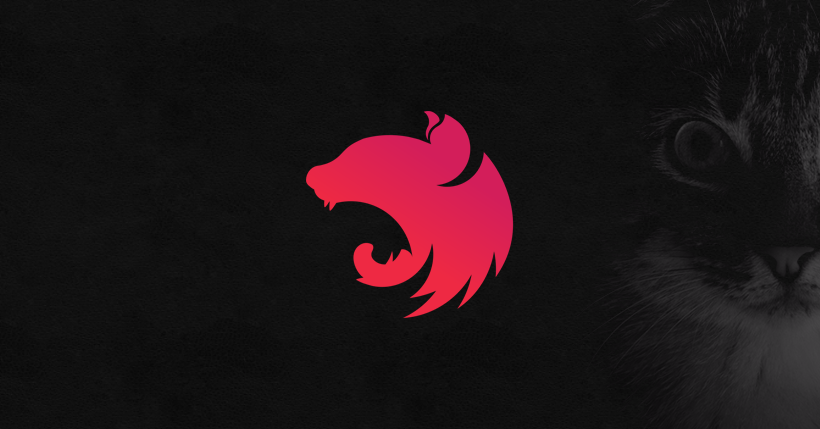
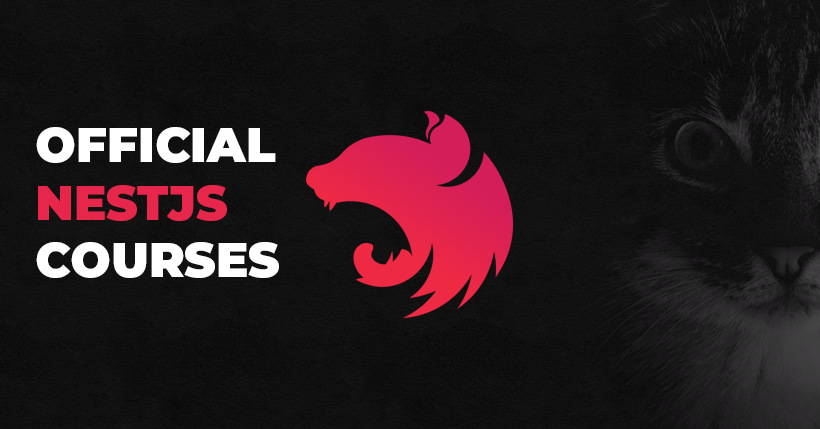
feat: data, updated og, sitemap

Changed region(s): [[0.0305, 0.5455, 0.3659, 0.6667], [0.0305, 0.2727, 0.3354, 0.3939], [0.0305, 0.4242, 0.2744, 0.5152]]

diff --git a/index.html b/index.html
@@ -34,9 +34,9 @@
       property="og:description"
       content="Official NestJS Courses. Learn everything from the basic principles, best-practices, tips & tricks, and advanced patterns straight from NestJS creator and core team members."
     />
-    <meta property="og:image" content="https://nestjs.com/img/nest-og.png" />
-    <meta property="og:image:width" content="1200" />
-    <meta property="og:image:height" content="650" />
+    <meta property="og:image" content="https://courses.nestjs.com/img/nest-og.png" />
+    <meta property="og:image:width" content="820" />
+    <meta property="og:image:height" content="429" />
     <meta
       name="twitter:description"
       content="Official NestJS Courses. Learn everything from the basic principles, best-practices, tips & tricks, and advanced patterns straight from the framework's core team members."
@@ -66,6 +66,59 @@
       }
       gtag('js', new Date());
       gtag('config', 'UA-30617038-6');
+    </script>
+
+    <script type="application/ld+json">
+      [{
+        "inLanguage": "en",
+        "@id": "https://www.udemy.com/course/nodejs-the-complete-guide/",
+        "about": {
+          "name": "Development"
+        },
+        "@type": "Course",
+        "image": "https://courses.nestjs.com/img/nest-og.png",
+        "description": "Whether you are a Node.js veteran, front-end developer, or even new to development. Learn everything about NestJS from the basic principles, best-practices, tips & tricks, to advanced patterns, getting you ready to build NestJS / Node.js applications at any scale. Prepare for an in-depth guided course & walkthrough of all the fundamentals of a NestJS application from the Creator Kamil Mysliwiec himself, and Mark Pieszak (Core Team Member).",
+        "publisher": {
+          "name": "NestJS",
+          "sameAs": "www.nestjs.com",
+          "@type": "Organization"
+        },
+        "@context": "http://schema.org",
+        "audience": {
+          "audienceType": [
+            "Beginner or advanced web developers who want to dive into backend (server-side) development with NestJS (Node.js)",
+            "Everyone who's interested in building modern, scalable and high-performing web applications",
+            "Experienced Node.js developers who want to dive into the full fledged NestJS framework and learn advanced concepts from GraphQL to Nest architecture."
+          ],
+          "@type": "Audience"
+        },
+        "provider": {
+          "name": "Kamil Mysliwiec",
+          "sameAs": "https://nestjs.com",
+          "@type": "Organization"
+        },
+        "name": "Official NestJS Courses. Learn everything from the basic principles, best-practices, tips & tricks, and advanced patterns straight from NestJS creator and core team members.",
+        "creator": [{
+          "name": "Kamil Mysliwiec",
+          "@type": "Person"
+        }, {
+          "name": "Mark Pieszak",
+          "@type": "Person"
+        }],
+        "isAccessibleForFree": false
+      }, {
+        "@context": "http://schema.org",
+        "brand": {
+          "name": "NestJS",
+          "description": "A progressive Node.js framework for building efficient, reliable and scalable server-side applications.",
+          "@type": "Brand",
+          "logo": "https://courses.nestjs.com/img/logo.svg"
+        },
+        "name": "Official NestJS Courses. Learn everything from the basic principles, best-practices, tips & tricks, and advanced patterns straight from NestJS creator and core team members.",
+        "description": "Whether you are a Node.js veteran, front-end developer, or even new to development. Learn everything about NestJS from the basic principles, best-practices, tips & tricks, to advanced patterns, getting you ready to build NestJS / Node.js applications at any scale. Prepare for an in-depth guided course & walkthrough of all the fundamentals of a NestJS application from the Creator Kamil Mysliwiec himself, and Mark Pieszak (Core Team Member).",
+        "image": "https://courses.nestjs.com/img/nest-og.png",
+        "@type": "Product"
+      }]
     </script>
   </head>
 
